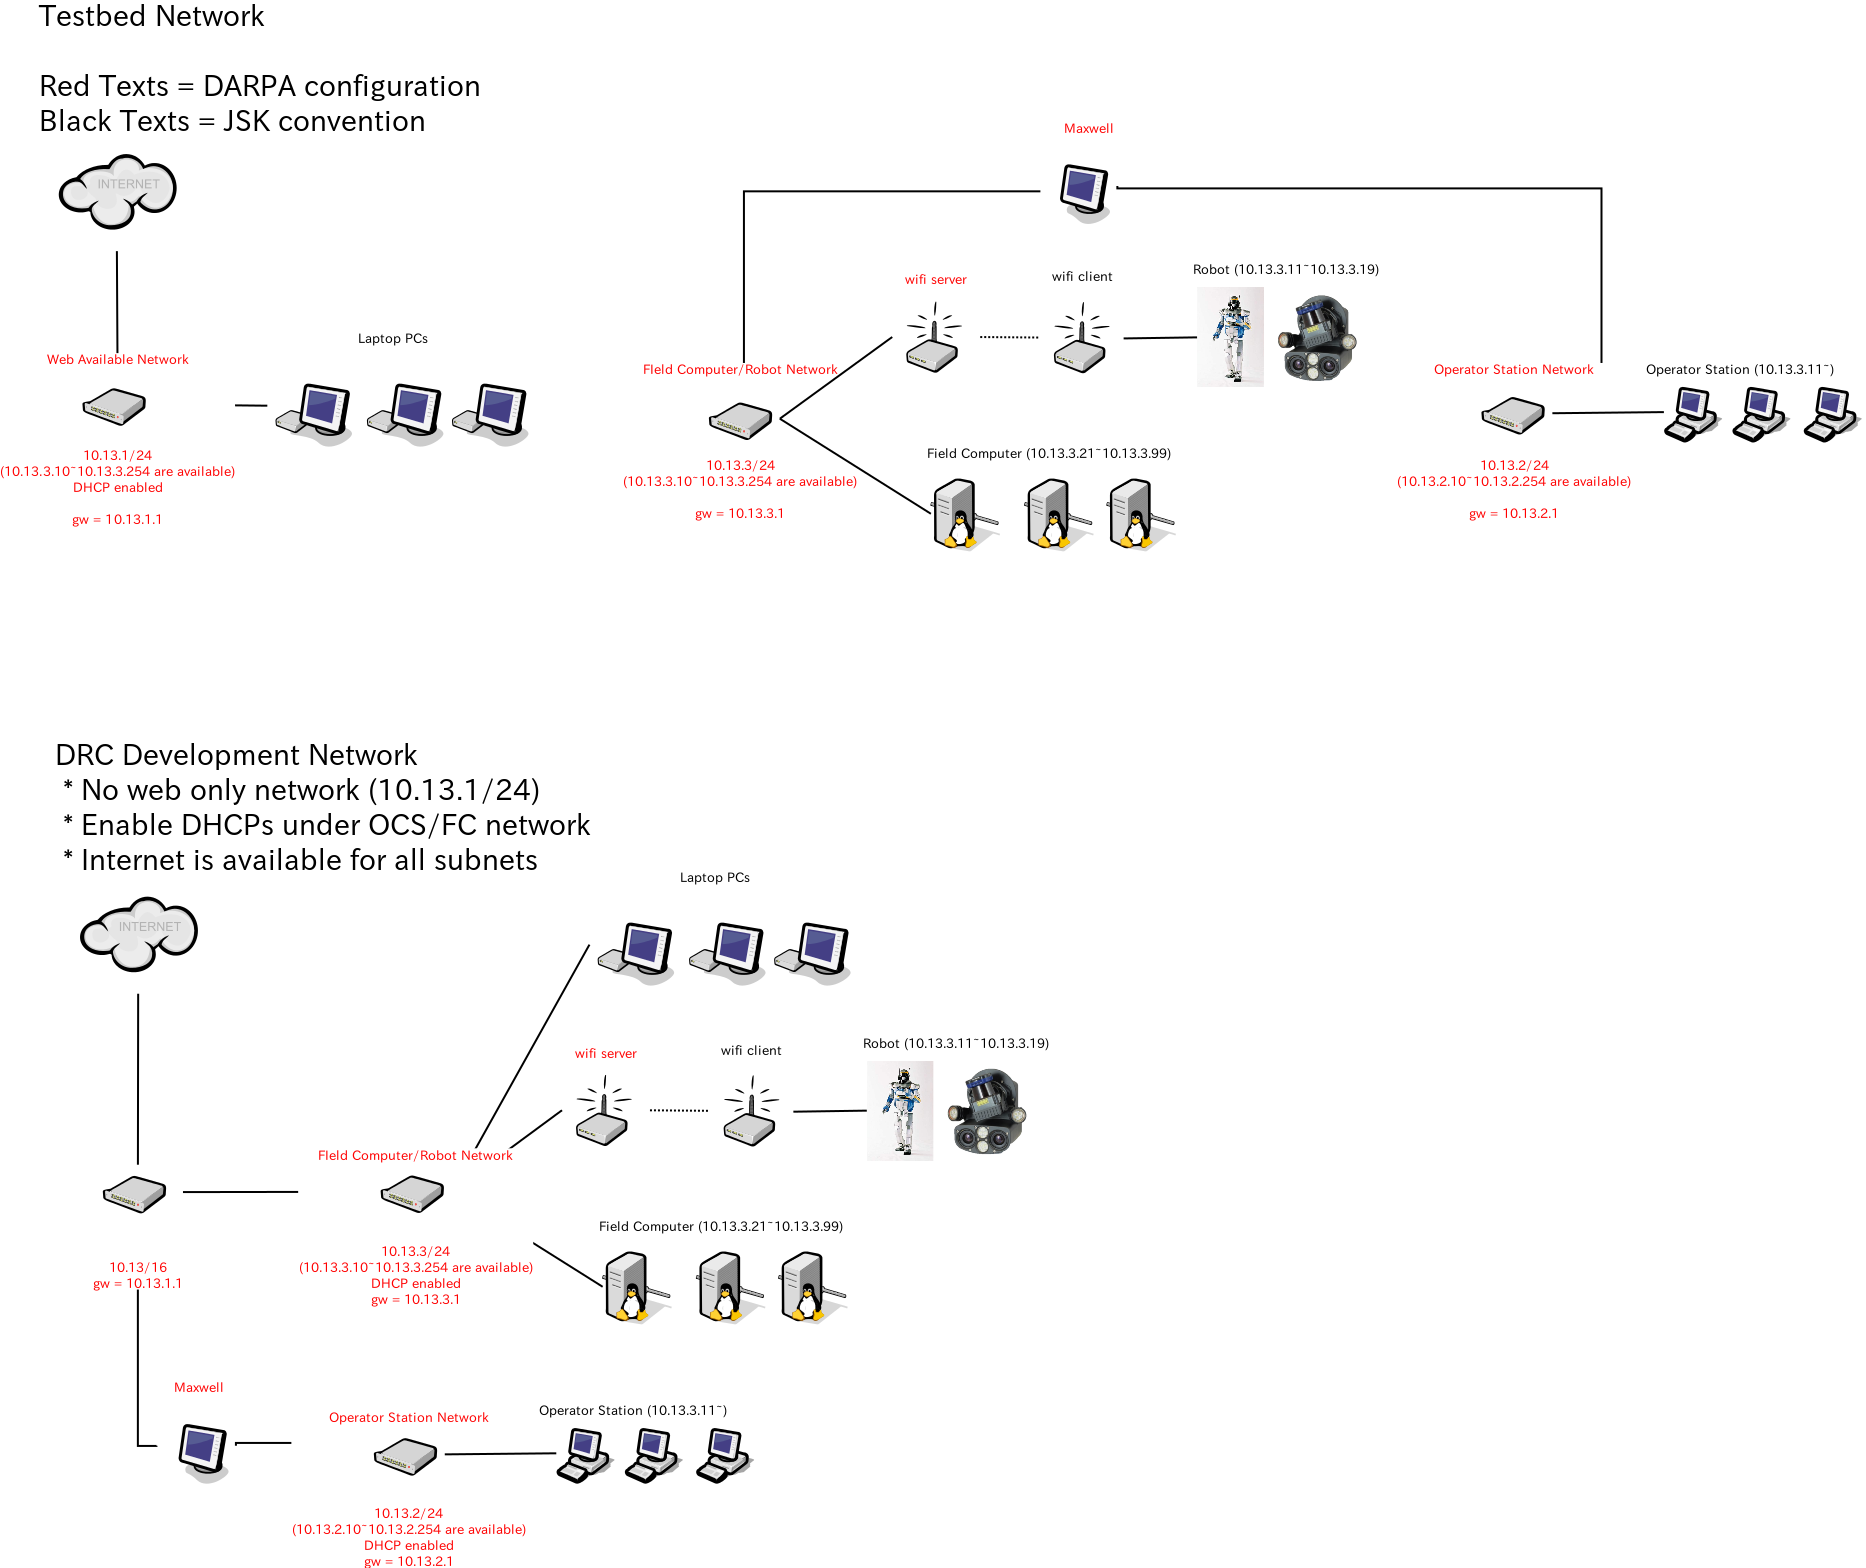
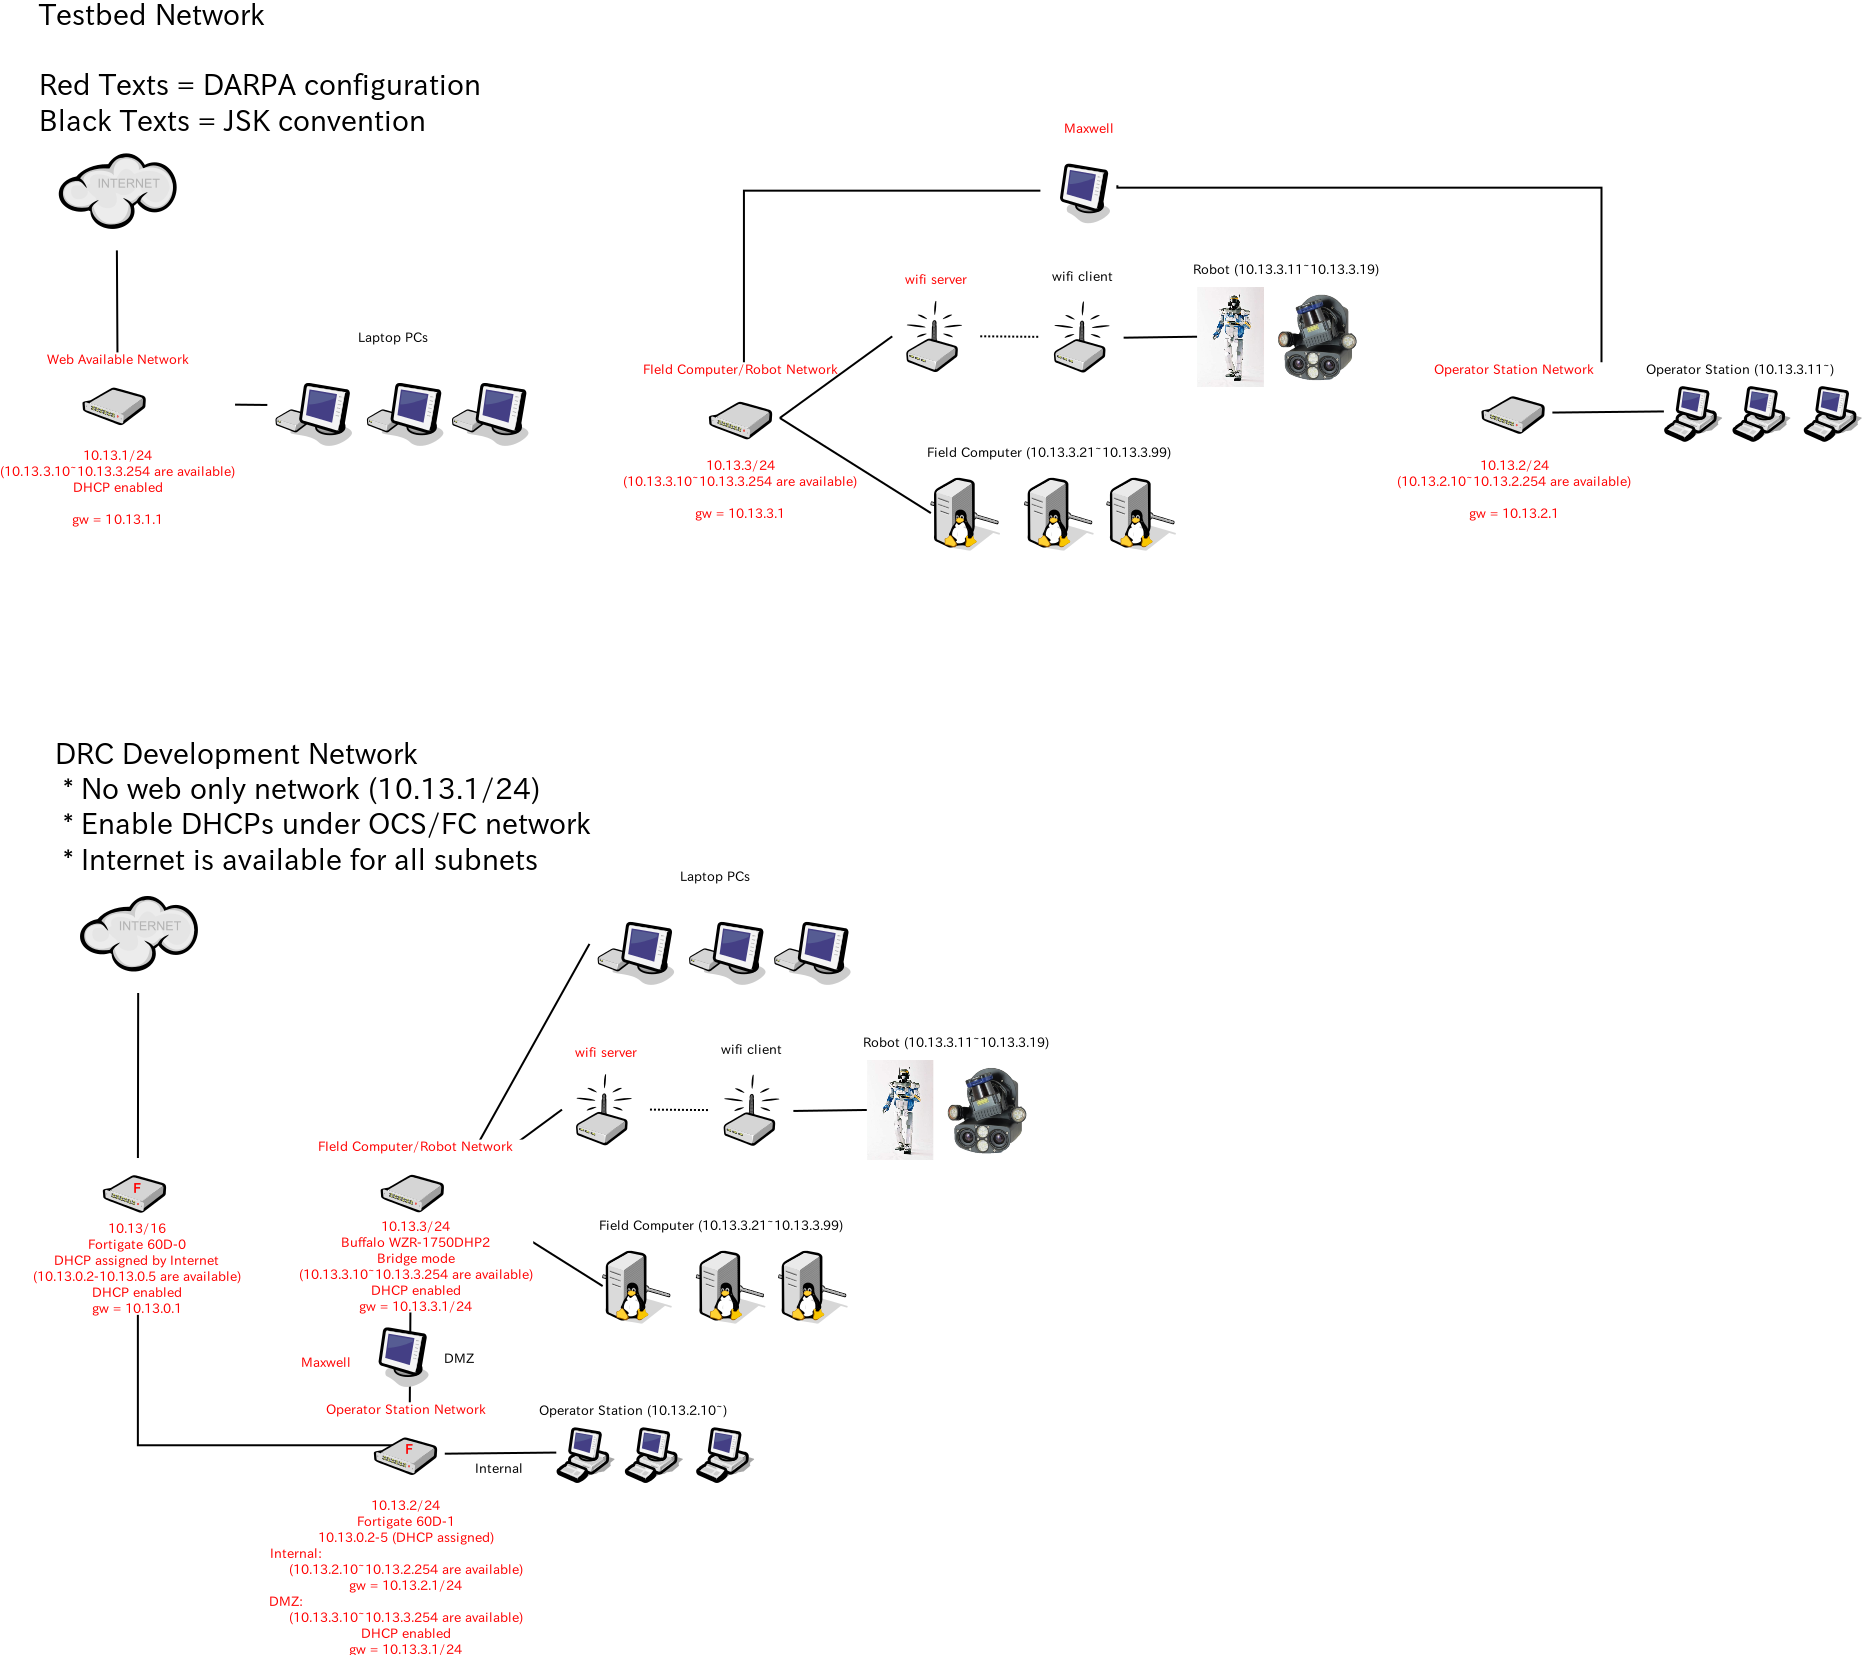
update readme and image

diff --git a/jsk_2015_06_hrp_drc/drc_network/README.md b/jsk_2015_06_hrp_drc/drc_network/README.md
@@ -201,3 +201,13 @@ Character                      | `8`                | 1200                  | 25
 # testbed
 testbedでのネットワークを図にまとめた
 ![](images/testbed-network.png)
+## JSKでのtestbedネットワーク環境の再現
+* 環境
+  * fortigate60DのinternalとDMZポートを使い、それぞれOCSとFC/Robot用にDHCPを振ることでサブネットマスクを24のまま相互に通信する
+  * fortigateの設定はconfigsディレクトリに保存してある。
+  * DMZは1ポートしかないのでbuffaloの無線ルータをブリッジモードにして使用
+  * fortigateのDMZポートとbuffaloの間にMaxwellをはさみ遅延環境を再現
+* 実験結果
+  * 有線で10.N.2.xと10.N.3.x間は934Mbps前後でている。
+* 考察
+  * 10.N.3.xのDHCPサーバがMaxwellを挟んでOCS側にあるため、遅延した時にFC/Robot側でDHCPを振ることができにくい。
